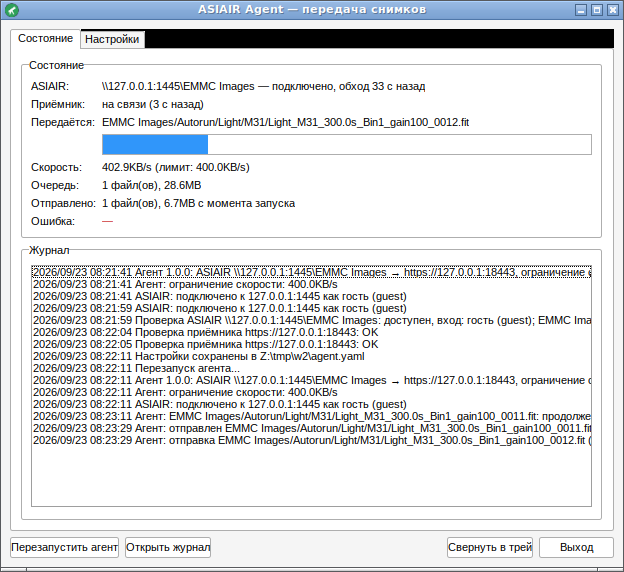
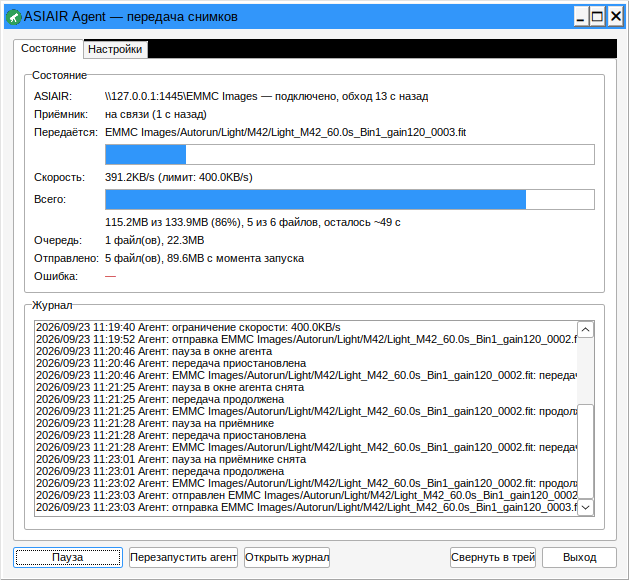
README: new screenshots with the pause button
Agent window (status, settings, tray menu) and the receiver page retaken
with the pause controls; new shots of the agent and the receiver page
while paused.

Claude-Session: https://claude.ai/code/session_01S4RY3raFBgMypHjf5Ws9AC

diff --git a/README.md b/README.md
@@ -153,13 +153,19 @@
   * красный — нет связи с ASIAIR или приёмником;
   * серый — не заполнены настройки.
 * **Пауза / Продолжить** (кнопка в окне и пункт меню значка): останавливает передачу. Текущий файл прерывается, а после «Продолжить» докачивается с того же места. Пока стоит пауза, агент по-прежнему обходит ASIAIR, отправляет список файлов и выполняет удаление со страницы приёмника. Пауза запоминается и остаётся после перезапуска программы. Приёмник показывает «пауза» на своей странице. У агента, работающего как служба Windows, окна нет — его можно поставить на паузу со страницы приёмника.
+
+  В строке «Передаётся» видно, где включена пауза: «пауза — нажмите «Продолжить»» (в окне агента) или «пауза на приёмнике».
+
+  ![Агент на паузе](docs/images/agent-paused.png)
 * **Меню значка:** «Открыть окно», «Настройки», «Пауза», «Перезапустить агент», «Выход».
 
   ![Меню значка агента](docs/images/agent-tray-menu.png)
 
 ### Страница приёмника
 
-* **Пауза / Продолжить** (раздел «Передача»): ставит передачу на паузу из дома. Агент получает её при следующей связи (обычно через несколько секунд), прерывает текущий файл и потом докачивает его с того же места. Пауза на приёмнике и пауза в окне агента независимы: передача идёт, только когда обе сняты. Пауза сохраняется после перезапуска приёмника.
+* **Пауза / Продолжить** (раздел «Передача»): ставит передачу на паузу из дома. Агент получает её при следующей связи (обычно через несколько секунд), прерывает текущий файл и потом докачивает его с того же места. Пауза на приёмнике и пауза в окне агента независимы: передача идёт, только когда обе сняты. Пауза сохраняется после перезапуска приёмника. Если пауза нажата в окне агента, рядом с кнопкой написано «пауза включена в окне агента — снимается там».
+
+  ![Пауза на странице приёмника](docs/images/receiver-pause.png)
 * **Файлы:** вся структура ASIAIR, сгруппированная по папкам. Уже полученные файлы показаны обычным цветом, ещё не полученные — серым. У каждого файла статус:
 
   | Статус | Что значит |
